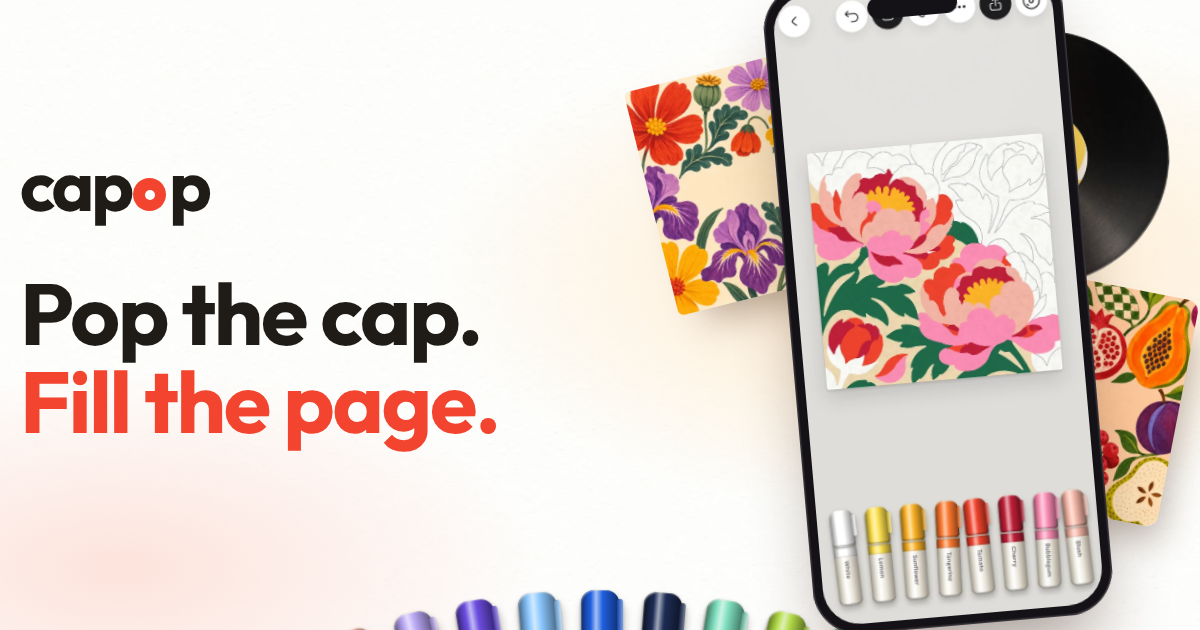
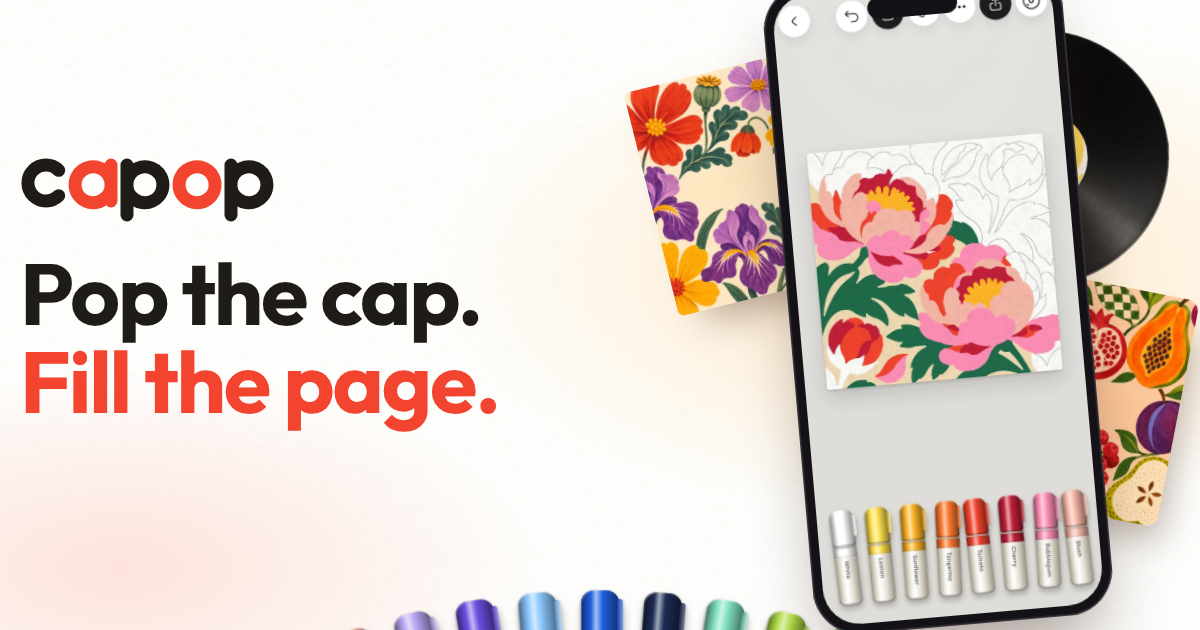
Capop: new wordmark
Claude-Session: https://claude.ai/code/session_01Hzzum1VUteVSirEA5XbYz3

diff --git a/capop/index.html b/capop/index.html
@@ -20,7 +20,7 @@
 <section class="hero">
   <div class="wrap">
     <div>
-      <p class="brand"><span class="wordmark" aria-label="Capop">cap<i aria-hidden="true"></i>p</span></p>
+      <p class="brand"><svg class="wordmark" viewBox="0 10 260 72" fill="none" stroke-width="13" stroke-linecap="round" stroke-linejoin="round" role="img" aria-label="Capop"><path d="M38.7 29.3A18 18 0 1 0 38.7 54.7" stroke="currentColor"/><path d="M91 24V60M91 42A18 18 0 1 1 90.99 41.9" stroke="#f2442e"/><path d="M107 24V74M107 42A18 18 0 1 0 107.01 41.9" stroke="currentColor"/><path d="M195 42A18 18 0 1 1 194.99 41.9" stroke="#f2442e"/><path d="M211 24V74M211 42A18 18 0 1 0 211.01 41.9" stroke="currentColor"/></svg></p>
       <h1>Pop the cap.<br><em>Fill the page.</em></h1>
       <p class="lede">Capop is a calm coloring studio for iPhone and iPad. Chunky acrylic markers, bold little books, the soft scratch of a marker on paper, and a record spinning while you color.</p>
       <div class="cta"><span class="pill"><span><small>Coming soon</small>to the App Store</span></span><a class="pill ghost" href="#paint">See how it feels ↓</a></div>
@@ -114,7 +114,7 @@
 
 <section class="finale" aria-labelledby="fin-h">
   <div class="wrap">
-    <h2 id="fin-h"><span class="wordmark" aria-label="Capop">cap<i aria-hidden="true"></i>p</span></h2>
+    <h2 id="fin-h"><svg class="wordmark" viewBox="0 10 260 72" fill="none" stroke-width="13" stroke-linecap="round" stroke-linejoin="round" role="img" aria-label="Capop"><path d="M38.7 29.3A18 18 0 1 0 38.7 54.7" stroke="currentColor"/><path d="M91 24V60M91 42A18 18 0 1 1 90.99 41.9" stroke="#1f1b17"/><path d="M107 24V74M107 42A18 18 0 1 0 107.01 41.9" stroke="currentColor"/><path d="M195 42A18 18 0 1 1 194.99 41.9" stroke="#1f1b17"/><path d="M211 24V74M211 42A18 18 0 1 0 211.01 41.9" stroke="currentColor"/></svg></h2>
     <p>Coming soon to the App Store, for iPhone and iPad.</p>
     <a class="pill" href="/capop/support/">Questions? Get in touch</a>
   </div>

diff --git a/capop/capop.css b/capop/capop.css
@@ -31,10 +31,8 @@ p{margin:0}
 .site nav a:hover{background:rgba(31,27,23,.06)}
 .site nav a[aria-current]{background:var(--ink);color:#fff}
 
-/* wordmark: the app's logo, the o is a marker dot */
-.wordmark{font:700 1em/1 var(--display);letter-spacing:-.045em;display:inline-flex;align-items:baseline}
-.wordmark i{display:inline-block;width:.46em;height:.46em;margin:0 .035em;border-radius:50%;background:var(--tomato);position:relative;align-self:baseline;top:.005em}
-.wordmark i::after{content:"";position:absolute;inset:34%;border-radius:50%;background:#fff}
+/* wordmark: the app's logo (geometric strokes; a and o in tomato) */
+svg.wordmark{display:block;height:1em;width:auto;overflow:visible}
 
 /* ---------- hero ---------- */
 .hero{position:relative;padding:120px 0 0;overflow:hidden;isolation:isolate}
@@ -181,9 +179,7 @@ section{position:relative}
 
 /* finale */
 .finale{background:var(--tomato);color:#fff;text-align:center;padding:clamp(90px,12vw,160px) 0;overflow:hidden}
-.finale .wordmark{font-size:clamp(80px,16vw,220px)}
-.finale .wordmark i{background:#fff}
-.finale .wordmark i::after{background:var(--tomato)}
+.finale h2{font-size:clamp(80px,16vw,200px);color:#fff;display:flex;justify-content:center}
 .finale p{font:600 clamp(18px,2vw,24px) var(--display);margin:18px auto 34px;max-width:28em}
 .finale .pill{background:#fff;color:var(--ink)}
 footer{padding:34px 0 46px;font-size:14px;color:var(--soft)}
